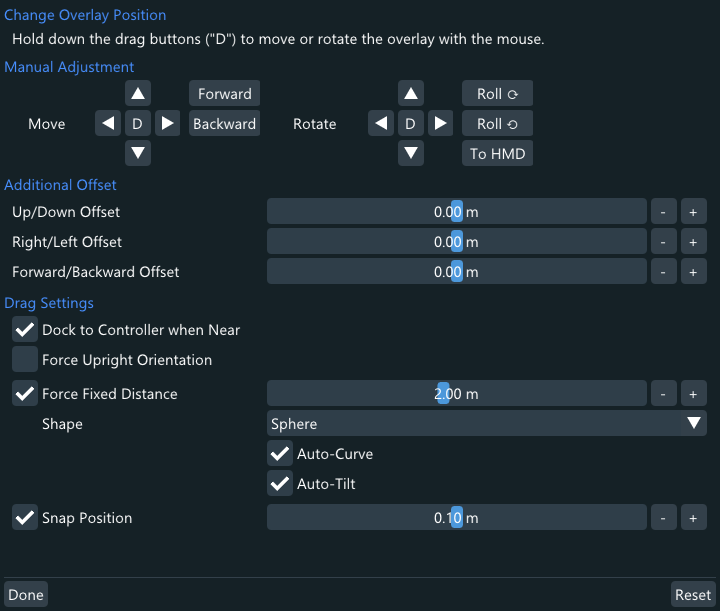
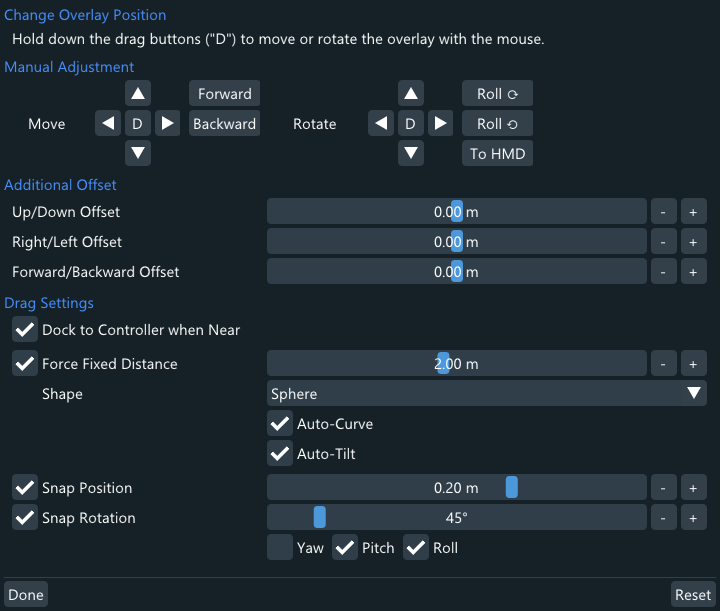
Update User Guide

diff --git a/docs/user_guide.md b/docs/user_guide.md
@@ -1035,9 +1035,6 @@ Change these settings to adjust the laser pointer drag behavior. Drag settings a
 - **[x] Dock to Controller when Near**:  
 Sets if auto-docking is enabled. Auto-docking automatically changes the dragged overlay's origin to the left or right hand controller when the drag is released near them.
 
-- **[x] Force Upright Orientation**:  
-Forces the overlay to stand straight up. Only yaw rotations are applied.
-
 - **[x] Force Fixed Distance**:  
 Force a fixed distance between the overlays and the user.  
 The reference position for this is always based on the headset position, but is only updated when the dashboard is brought up or drag-mode is toggled on while the dashboard is not active. Small changes in position are ignored to allow for a more fixed reference position between adjustments.  
@@ -1052,6 +1049,12 @@ Using stick or touchpad to change the distance of an overlay during a drag will 
 - **[x] Snap Position**:  
 Snaps the position to a 3D grid of the given size.  
 Note that the overlay origin itself may still be moving and make it difficult to line up multiple overlays together.
+
+- **[x] Snap Rotation**:  
+Snaps the rotation to the gvien angle.  
+Note that the overlay origin itself may still be spinning and make it difficult to line up multiple overlays together.
+  - **[x] Yaw/Pitch/Roll**  
+  Toggles which axes the snapping is applied to.
 
 ### Cropping Area Page
 
